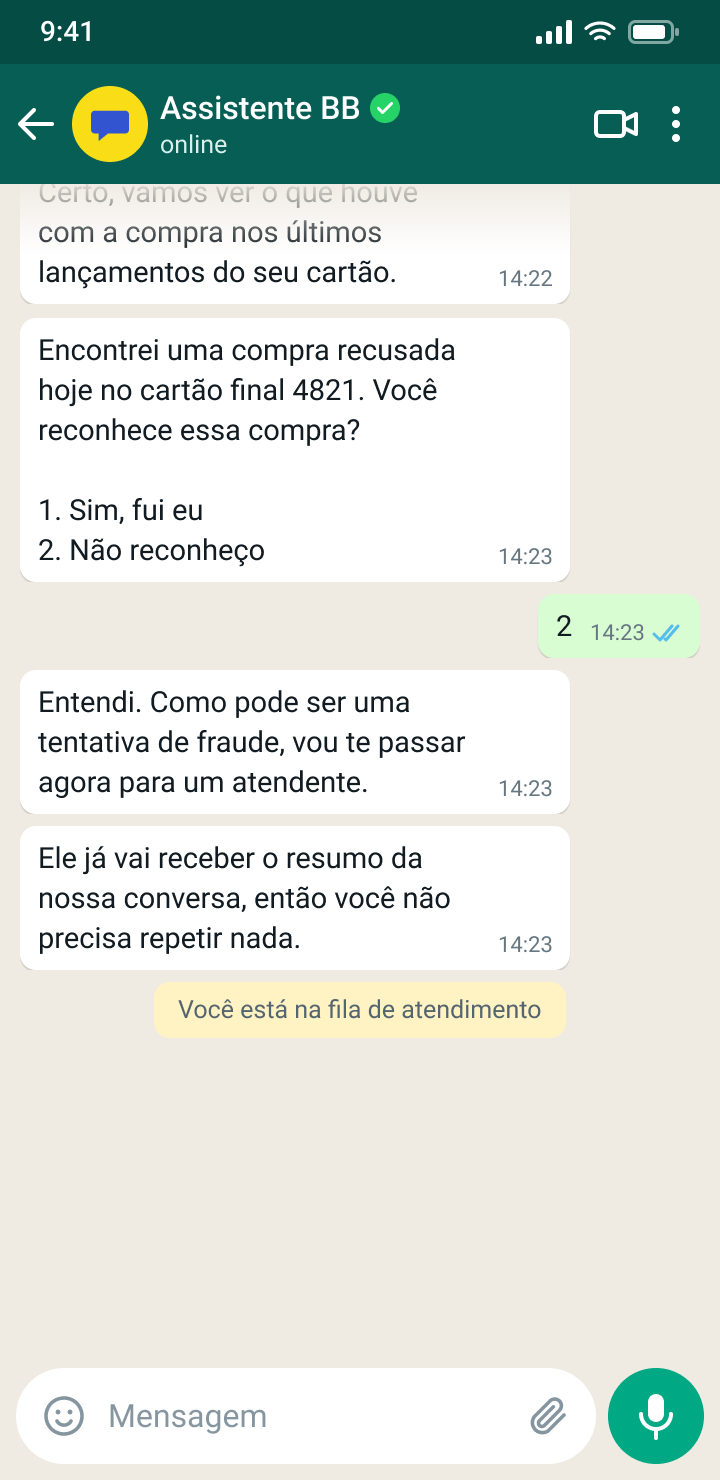
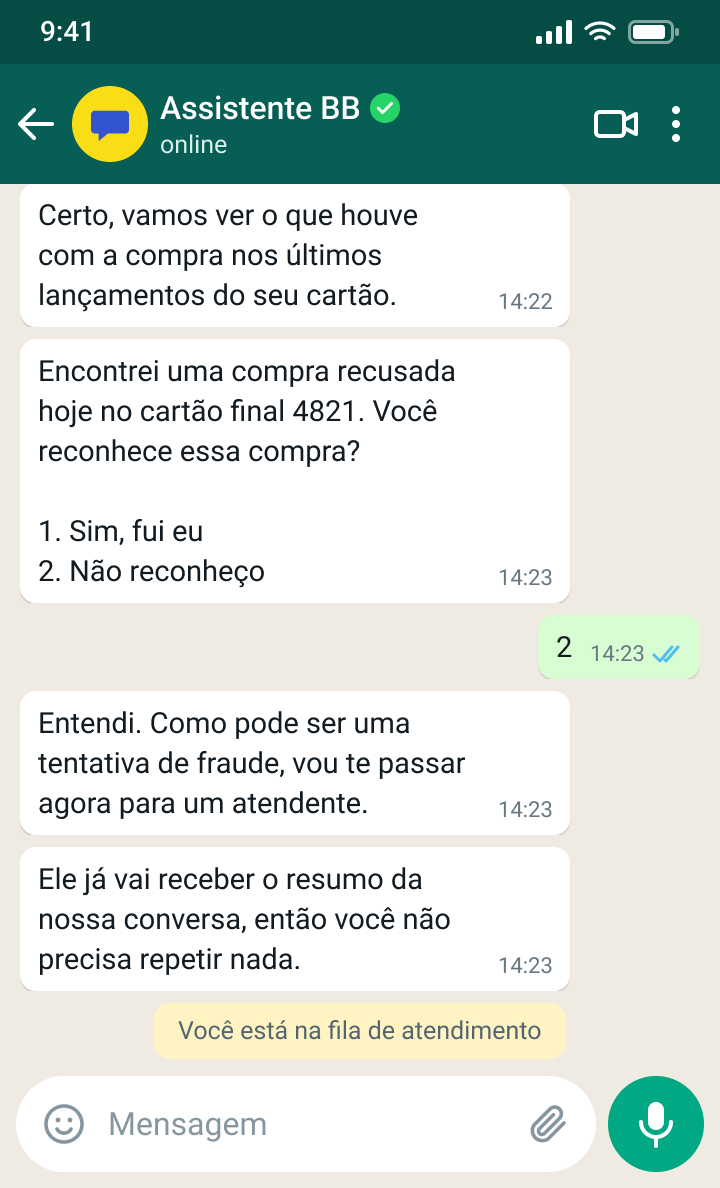
Case BB: telas de WhatsApp preenchidas de ponta a ponta, 4 blocos alinhados com rótulo '4. Tela do atendente' e pesquisa/teste (Mágico de Oz + logs) em 'O que eu fiz' (PT/EN/ES)
Claude-Session: https://claude.ai/code/session_01AMTPoRfJPEUWcLiTCnj4aj

diff --git a/es/index.html b/es/index.html
@@ -353,11 +353,11 @@
 <p class="cx-role"><b>UX Writer Senior</b><span>Banco do Brasil</span></p>
 </div>
 <div class="cx-bleed">
-<div class="cx-strip imgs fx" style="--n:4;--cols:0.486fr 0.486fr 0.486fr 1.267fr">
-<figure class="bb-fig"><figcaption class="bb-cap">1. Fallback en 2 etapas</figcaption><img style="aspect-ratio:360/740" src="/bb-fallback.png" alt="Chat de WhatsApp con el asistente de BB, en portugués: después de dos mensajes sin contexto, el asistente explica lo que puede hacer con un ejemplo y ofrece opciones numeradas" loading="lazy"></figure>
-<figure class="bb-fig"><figcaption class="bb-cap">2. Desambiguación</figcaption><img style="aspect-ratio:360/740" src="/bb-desambiguacao.png" alt="Chat de WhatsApp, en portugués: el cliente escribe “mi tarjeta no pasa” y el asistente confirma la intención con tres opciones numeradas antes de pedir cualquier dato" loading="lazy"></figure>
-<figure class="bb-fig"><figcaption class="bb-cap">3. Derivación con contexto</figcaption><img style="aspect-ratio:360/740" src="/bb-risco.png" alt="Chat de WhatsApp, en portugués: el cliente no reconoce una compra rechazada en la tarjeta terminada en 4821 y el asistente deriva a un agente, avisando que recibe el resumen de la conversación" loading="lazy"></figure>
-<img style="aspect-ratio:760/600" src="/bb-console.png" alt="Consola del agente, en portugués, con la conversación que viene de WhatsApp y el resumen de la preatención: intención detectada, paso donde se cortó, datos ya validados y regla activada" loading="lazy">
+<div class="cx-strip imgs fx" style="--n:4;--cols:0.60606fr 0.60606fr 0.60606fr 1.26667fr">
+<figure class="bb-fig"><figcaption class="bb-cap">1. Fallback en 2 etapas</figcaption><img style="aspect-ratio:720/1188" src="/bb-fallback.png" alt="Chat de WhatsApp con el asistente de BB, en portugués: después de dos mensajes sin contexto, el asistente explica lo que puede hacer con un ejemplo y ofrece opciones numeradas" loading="lazy"></figure>
+<figure class="bb-fig"><figcaption class="bb-cap">2. Desambiguación</figcaption><img style="aspect-ratio:720/1188" src="/bb-desambiguacao.png" alt="Chat de WhatsApp, en portugués: el cliente escribe “mi tarjeta no pasa” y el asistente confirma la intención con tres opciones numeradas antes de pedir cualquier dato" loading="lazy"></figure>
+<figure class="bb-fig"><figcaption class="bb-cap">3. Derivación con contexto</figcaption><img style="aspect-ratio:720/1188" src="/bb-risco.png" alt="Chat de WhatsApp, en portugués: el cliente no reconoce una compra rechazada en la tarjeta terminada en 4821 y el asistente deriva a un agente, avisando que recibe el resumen de la conversación" loading="lazy"></figure>
+<figure class="bb-fig bb-fig-wide"><figcaption class="bb-cap">4. Pantalla del agente</figcaption><img style="aspect-ratio:760/600" src="/bb-console.png" alt="Consola del agente, en portugués, con la conversación que viene de WhatsApp y el resumen de la preatención: intención detectada, paso donde se cortó, datos ya validados y regla activada" loading="lazy"></figure>
 </div>
 </div>
 <div class="cx-body fx">
@@ -371,7 +371,7 @@
 </div>
 <div class="fx-blk">
 <h3 class="cx-label">Qué hice</h3>
-<ul class="fx-list"><li>Planifiqué los flujos de diálogo, las reglas de error, ambigüedad y falta de contexto y la derivación a atención humana con Producto, Negocio y TI.</li><li>Entrené la IA (IBM Watson) y analicé las conversaciones reales en los logs para separar intenciones que chocaban (como “tarjeta bloqueada” por contraseña y “quiero bloquear la tarjeta” por pérdida).</li><li>Escribí y documenté el microcopy y las bibliotecas de mensajes del Sistema de Diseño Conversacional en Miro y Figma, para mantener el tono de voz y acelerar la entrega de TI.</li></ul>
+<ul class="fx-list"><li>Planifiqué los flujos de diálogo, las reglas de error, ambigüedad y falta de contexto y la derivación a atención humana con Producto, Negocio y TI.</li><li>Validé los flujos con pruebas rápidas de diálogo (Mago de Oz) simulando escenarios de presión y audité logs reales en IBM Watson para separar intenciones en conflicto (como “tarjeta bloqueada” por clave y “quiero bloquear la tarjeta” por pérdida).</li><li>Escribí y documenté el microcopy y las bibliotecas de mensajes del Sistema de Diseño Conversacional en Miro y Figma, para mantener el tono de voz y acelerar la entrega de TI.</li></ul>
 </div>
 <div class="fx-blk">
 <h3 class="cx-label">Resultados</h3>

diff --git a/index.html b/index.html
@@ -353,11 +353,11 @@
 <p class="cx-role"><b>Senior UX Writer</b><span>Banco do Brasil</span></p>
 </div>
 <div class="cx-bleed">
-<div class="cx-strip imgs fx" style="--n:4;--cols:0.486fr 0.486fr 0.486fr 1.267fr">
-<figure class="bb-fig"><figcaption class="bb-cap">1. Two-step fallback</figcaption><img style="aspect-ratio:360/740" src="/bb-fallback.png" alt="WhatsApp chat with the BB assistant, in Portuguese: after two messages without context, the assistant explains what it can do with an example and offers numbered options" loading="lazy"></figure>
-<figure class="bb-fig"><figcaption class="bb-cap">2. Disambiguation</figcaption><img style="aspect-ratio:360/740" src="/bb-desambiguacao.png" alt="WhatsApp chat, in Portuguese: the customer writes “my card isn’t going through” and the assistant confirms the intent with three numbered options before asking for any data" loading="lazy"></figure>
-<figure class="bb-fig"><figcaption class="bb-cap">3. Handoff with context</figcaption><img style="aspect-ratio:360/740" src="/bb-risco.png" alt="WhatsApp chat, in Portuguese: the customer doesn’t recognize a declined purchase on the card ending in 4821, and the assistant hands off to an agent, saying the agent gets a summary of the conversation" loading="lazy"></figure>
-<img style="aspect-ratio:760/600" src="/bb-console.png" alt="Agent console, in Portuguese, with the conversation from WhatsApp and the pre-service summary: detected intent, step where it stopped, data already validated and rule triggered" loading="lazy">
+<div class="cx-strip imgs fx" style="--n:4;--cols:0.60606fr 0.60606fr 0.60606fr 1.26667fr">
+<figure class="bb-fig"><figcaption class="bb-cap">1. Two-step fallback</figcaption><img style="aspect-ratio:720/1188" src="/bb-fallback.png" alt="WhatsApp chat with the BB assistant, in Portuguese: after two messages without context, the assistant explains what it can do with an example and offers numbered options" loading="lazy"></figure>
+<figure class="bb-fig"><figcaption class="bb-cap">2. Disambiguation</figcaption><img style="aspect-ratio:720/1188" src="/bb-desambiguacao.png" alt="WhatsApp chat, in Portuguese: the customer writes “my card isn’t going through” and the assistant confirms the intent with three numbered options before asking for any data" loading="lazy"></figure>
+<figure class="bb-fig"><figcaption class="bb-cap">3. Handoff with context</figcaption><img style="aspect-ratio:720/1188" src="/bb-risco.png" alt="WhatsApp chat, in Portuguese: the customer doesn’t recognize a declined purchase on the card ending in 4821, and the assistant hands off to an agent, saying the agent gets a summary of the conversation" loading="lazy"></figure>
+<figure class="bb-fig bb-fig-wide"><figcaption class="bb-cap">4. Agent screen</figcaption><img style="aspect-ratio:760/600" src="/bb-console.png" alt="Agent console, in Portuguese, with the conversation from WhatsApp and the pre-service summary: detected intent, step where it stopped, data already validated and rule triggered" loading="lazy"></figure>
 </div>
 </div>
 <div class="cx-body fx">
@@ -371,7 +371,7 @@
 </div>
 <div class="fx-blk">
 <h3 class="cx-label">What I did</h3>
-<ul class="fx-list"><li>I planned the dialogue flows, the rules for errors, ambiguity and missing context, and the human handoff with Product, Business and IT.</li><li>I trained the AI (IBM Watson) and analyzed real conversations in the logs to separate colliding intents (like “card blocked” after a wrong password and “I want to block my card” after a loss).</li><li>I wrote and documented the microcopy and message libraries of the Conversational Design System in Miro and Figma, to keep the tone of voice and speed up IT delivery.</li></ul>
+<ul class="fx-list"><li>I planned the dialogue flows, the rules for errors, ambiguity and missing context, and the human handoff with Product, Business and IT.</li><li>Validated flows through quick dialogue tests (Wizard of Oz) simulating high-stress scenarios and audited real IBM Watson logs to separate colliding intents (such as “card blocked” by wrong PIN vs. “I want to block my card” for loss).</li><li>I wrote and documented the microcopy and message libraries of the Conversational Design System in Miro and Figma, to keep the tone of voice and speed up IT delivery.</li></ul>
 </div>
 <div class="fx-blk">
 <h3 class="cx-label">Results</h3>

diff --git a/pt/index.html b/pt/index.html
@@ -371,11 +371,11 @@
 <p class="cx-role"><b>UX Writer Sênior</b><span>Banco do Brasil</span></p>
 </div>
 <div class="cx-bleed">
-<div class="cx-strip imgs fx" style="--n:4;--cols:0.486fr 0.486fr 0.486fr 1.267fr">
-<figure class="bb-fig"><figcaption class="bb-cap">1. Fallback em 2 etapas</figcaption><img style="aspect-ratio:360/740" src="/bb-fallback.png" alt="Conversa no WhatsApp com a Assistente BB: depois de duas mensagens sem contexto, a assistente explica o que consegue fazer com um exemplo e oferece opções numeradas" loading="lazy"></figure>
-<figure class="bb-fig"><figcaption class="bb-cap">2. Desambiguação</figcaption><img style="aspect-ratio:360/740" src="/bb-desambiguacao.png" alt="Conversa no WhatsApp: o cliente escreve “meu cartão não passa” e a assistente confirma a intenção com três opções numeradas antes de pedir qualquer dado" loading="lazy"></figure>
-<figure class="bb-fig"><figcaption class="bb-cap">3. Transbordo com contexto</figcaption><img style="aspect-ratio:360/740" src="/bb-risco.png" alt="Conversa no WhatsApp: o cliente não reconhece uma compra recusada no cartão final 4821 e a assistente transfere para um atendente, avisando que ele recebe o resumo da conversa" loading="lazy"></figure>
-<img style="aspect-ratio:760/600" src="/bb-console.png" alt="Console do atendente com a conversa vinda do WhatsApp e o resumo do pré-atendimento: intenção detectada, etapa em que parou, dados já validados e regra acionada" loading="lazy">
+<div class="cx-strip imgs fx" style="--n:4;--cols:0.60606fr 0.60606fr 0.60606fr 1.26667fr">
+<figure class="bb-fig"><figcaption class="bb-cap">1. Fallback em 2 etapas</figcaption><img style="aspect-ratio:720/1188" src="/bb-fallback.png" alt="Conversa no WhatsApp com a Assistente BB: depois de duas mensagens sem contexto, a assistente explica o que consegue fazer com um exemplo e oferece opções numeradas" loading="lazy"></figure>
+<figure class="bb-fig"><figcaption class="bb-cap">2. Desambiguação</figcaption><img style="aspect-ratio:720/1188" src="/bb-desambiguacao.png" alt="Conversa no WhatsApp: o cliente escreve “meu cartão não passa” e a assistente confirma a intenção com três opções numeradas antes de pedir qualquer dado" loading="lazy"></figure>
+<figure class="bb-fig"><figcaption class="bb-cap">3. Transbordo com contexto</figcaption><img style="aspect-ratio:720/1188" src="/bb-risco.png" alt="Conversa no WhatsApp: o cliente não reconhece uma compra recusada no cartão final 4821 e a assistente transfere para um atendente, avisando que ele recebe o resumo da conversa" loading="lazy"></figure>
+<figure class="bb-fig bb-fig-wide"><figcaption class="bb-cap">4. Tela do atendente</figcaption><img style="aspect-ratio:760/600" src="/bb-console.png" alt="Console do atendente com a conversa vinda do WhatsApp e o resumo do pré-atendimento: intenção detectada, etapa em que parou, dados já validados e regra acionada" loading="lazy"></figure>
 </div>
 </div>
 <div class="cx-body fx">
@@ -389,7 +389,7 @@
 </div>
 <div class="fx-blk">
 <h3 class="cx-label">O que eu fiz</h3>
-<ul class="fx-list"><li>Planejei os fluxos de diálogo, as regras de erro, ambiguidade e falta de contexto e o encaminhamento humano com Produto, Negócios e TI.</li><li>Treinei a IA (IBM Watson) e analisei as conversas reais nos logs para separar intenções que colidiam (como “cartão bloqueado” por senha e “quero bloquear o cartão” por perda).</li><li>Escrevi e documentei o microcopy e as bibliotecas de mensagens do Sistema de Design Conversacional no Miro e no Figma para manter o tom de voz e acelerar a entrega da TI.</li></ul>
+<ul class="fx-list"><li>Planejei os fluxos de diálogo, as regras de erro, ambiguidade e falta de contexto e o encaminhamento humano com Produto, Negócios e TI.</li><li>Validei os fluxos em testes rápidos de diálogo (Mágico de Oz) simulando cenários de pressão e auditei logs reais no IBM Watson para separar intenções que colidiam (como “cartão bloqueado” por senha e “quero bloquear o cartão” por perda).</li><li>Escrevi e documentei o microcopy e as bibliotecas de mensagens do Sistema de Design Conversacional no Miro e no Figma para manter o tom de voz e acelerar a entrega da TI.</li></ul>
 </div>
 <div class="fx-blk">
 <h3 class="cx-label">Resultados</h3>

diff --git a/es/assistente-virtual-whatsapp.html b/es/assistente-virtual-whatsapp.html
@@ -85,7 +85,7 @@
 <div>
 <h2 class="cx-label">Qué hice</h2>
 <p>Planifiqué los flujos de diálogo, las reglas de error, ambigüedad y falta de contexto y la derivación a atención humana con Producto, Negocio y TI.</p>
-<p>Entrené la IA (IBM Watson) y analicé las conversaciones reales en los logs para separar intenciones que chocaban (como “tarjeta bloqueada” por contraseña y “quiero bloquear la tarjeta” por pérdida).</p>
+<p>Validé los flujos con pruebas rápidas de diálogo (Mago de Oz) simulando escenarios de presión y audité logs reales en IBM Watson para separar intenciones en conflicto (como “tarjeta bloqueada” por clave y “quiero bloquear la tarjeta” por pérdida).</p>
 <p>Escribí y documenté el microcopy y las bibliotecas de mensajes del Sistema de Diseño Conversacional en Miro y Figma, para mantener el tono de voz y acelerar la entrega de TI.</p>
 </div>
 <div>
@@ -98,7 +98,7 @@
 </div>
 <div class="cx-bleed">
 <div class="cx-strip imgs" style="--n:1">
-<img src="/bb-console.png" alt="Consola del agente, en portugués, con la conversación que viene de WhatsApp y el resumen de la preatención: intención detectada, paso donde se cortó, datos ya validados y regla activada" loading="lazy">
+<figure class="bb-fig bb-fig-wide"><figcaption class="bb-cap">4. Pantalla del agente</figcaption><img src="/bb-console.png" alt="Consola del agente, en portugués, con la conversación que viene de WhatsApp y el resumen de la preatención: intención detectada, paso donde se cortó, datos ya validados y regla activada" loading="lazy"></figure>
 </div>
 </div>
 </main>

diff --git a/assistente-virtual-whatsapp.html b/assistente-virtual-whatsapp.html
@@ -85,7 +85,7 @@
 <div>
 <h2 class="cx-label">What I did</h2>
 <p>I planned the dialogue flows, the rules for errors, ambiguity and missing context, and the human handoff with Product, Business and IT.</p>
-<p>I trained the AI (IBM Watson) and analyzed real conversations in the logs to separate colliding intents (like “card blocked” after a wrong password and “I want to block my card” after a loss).</p>
+<p>Validated flows through quick dialogue tests (Wizard of Oz) simulating high-stress scenarios and audited real IBM Watson logs to separate colliding intents (such as “card blocked” by wrong PIN vs. “I want to block my card” for loss).</p>
 <p>I wrote and documented the microcopy and message libraries of the Conversational Design System in Miro and Figma, to keep the tone of voice and speed up IT delivery.</p>
 </div>
 <div>
@@ -98,7 +98,7 @@
 </div>
 <div class="cx-bleed">
 <div class="cx-strip imgs" style="--n:1">
-<img src="/bb-console.png" alt="Agent console, in Portuguese, with the conversation from WhatsApp and the pre-service summary: detected intent, step where it stopped, data already validated and rule triggered" loading="lazy">
+<figure class="bb-fig bb-fig-wide"><figcaption class="bb-cap">4. Agent screen</figcaption><img src="/bb-console.png" alt="Agent console, in Portuguese, with the conversation from WhatsApp and the pre-service summary: detected intent, step where it stopped, data already validated and rule triggered" loading="lazy"></figure>
 </div>
 </div>
 </main>

diff --git a/pt/assistente-virtual-whatsapp.html b/pt/assistente-virtual-whatsapp.html
@@ -85,7 +85,7 @@
 <div>
 <h2 class="cx-label">O que eu fiz</h2>
 <p>Planejei os fluxos de diálogo, as regras de erro, ambiguidade e falta de contexto e o encaminhamento humano com Produto, Negócios e TI.</p>
-<p>Treinei a IA (IBM Watson) e analisei as conversas reais nos logs para separar intenções que colidiam (como “cartão bloqueado” por senha e “quero bloquear o cartão” por perda).</p>
+<p>Validei os fluxos em testes rápidos de diálogo (Mágico de Oz) simulando cenários de pressão e auditei logs reais no IBM Watson para separar intenções que colidiam (como “cartão bloqueado” por senha e “quero bloquear o cartão” por perda).</p>
 <p>Escrevi e documentei o microcopy e as bibliotecas de mensagens do Sistema de Design Conversacional no Miro e no Figma para manter o tom de voz e acelerar a entrega da TI.</p>
 </div>
 <div>
@@ -98,7 +98,7 @@
 </div>
 <div class="cx-bleed">
 <div class="cx-strip imgs" style="--n:1">
-<img src="/bb-console.png" alt="Console do atendente com a conversa vinda do WhatsApp e o resumo do pré-atendimento: intenção detectada, etapa em que parou, dados já validados e regra acionada" loading="lazy">
+<figure class="bb-fig bb-fig-wide"><figcaption class="bb-cap">4. Tela do atendente</figcaption><img src="/bb-console.png" alt="Console do atendente com a conversa vinda do WhatsApp e o resumo do pré-atendimento: intenção detectada, etapa em que parou, dados já validados e regra acionada" loading="lazy"></figure>
 </div>
 </div>
 </main>

diff --git a/styles.css b/styles.css
@@ -1310,3 +1310,6 @@ body.v2 .ct { padding-top: 40px; }
 .bb-cap { max-width: none; margin: 0 0 8px; font-size: .78rem; line-height: 1.3; font-weight: 600; letter-spacing: .01em; color: #666; }
 .cx-strip.fx .bb-fig { display: flex; flex-direction: column; justify-content: flex-end; }
 .cx-strip.fx .bb-cap { display: flex; align-items: flex-end; min-height: 2.6em; }
+.bb-fig-wide .bb-cap { min-height: 0; }
+.cx-strip.fx .bb-fig-wide .bb-cap { min-height: 2.6em; }
+@media (max-width: 760px) { .sp-case .cx-strip.imgs.fx .bb-fig-wide { grid-column: 1 / -1; } }
